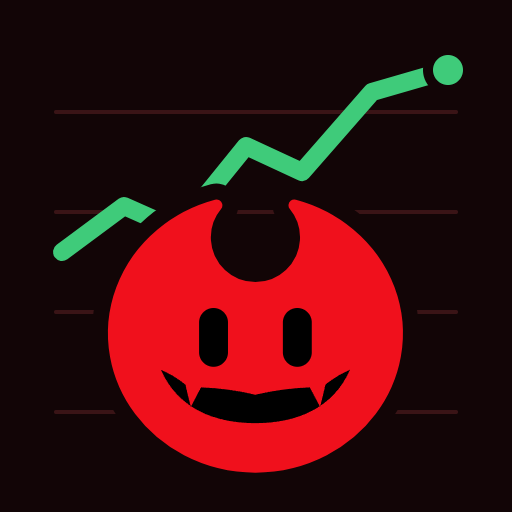
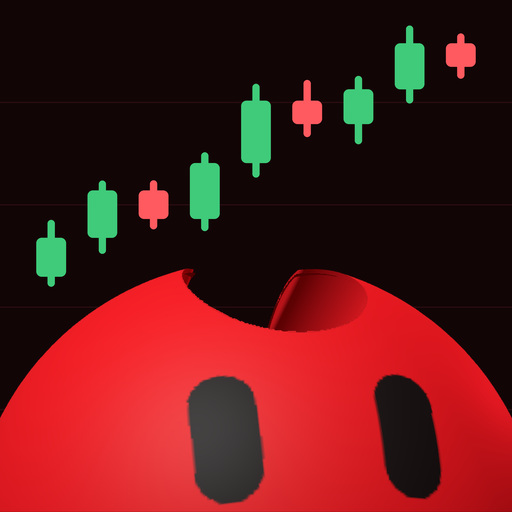
Nouvelle icône d'app et d'onglet : le perso 3D en grand, devant des bougies qui montent

diff --git a/dash/index.html b/dash/index.html
@@ -5,9 +5,9 @@
 <meta name="viewport" content="width=device-width, initial-scale=1, viewport-fit=cover">
 <meta name="theme-color" content="#120506">
 <title>RedRock</title>
-<link rel="icon" href="/favicon.png">
+<link rel="icon" href="/favicon.png?v=3">
 <link rel="manifest" href="/manifest.webmanifest">
-<link rel="apple-touch-icon" href="/apple-touch-icon.png">
+<link rel="apple-touch-icon" href="/apple-touch-icon.png?v=3">
 <meta name="apple-mobile-web-app-capable" content="yes">
 <meta name="mobile-web-app-capable" content="yes">
 <meta name="apple-mobile-web-app-status-bar-style" content="black-translucent">

diff --git a/dash/sw.js b/dash/sw.js
@@ -1,5 +1,5 @@
 /* HC-1 : service worker — appli installable, page disponible hors connexion, notifications push. */
-const CACHE = "hc1-v49";
+const CACHE = "hc1-v50";
 const SHELL = ["/", "/fx.js", "/character/redrock.js", "/character/face.js", "/character-libre/boulon.js", "/logo.png", "/icon-192.png", "/manifest.webmanifest"];
 
 // bibliothèques et polices embarquées (dash/vendor/) : plus aucun CDN ; les polices s'ajoutent au cache dès leur premier usage
